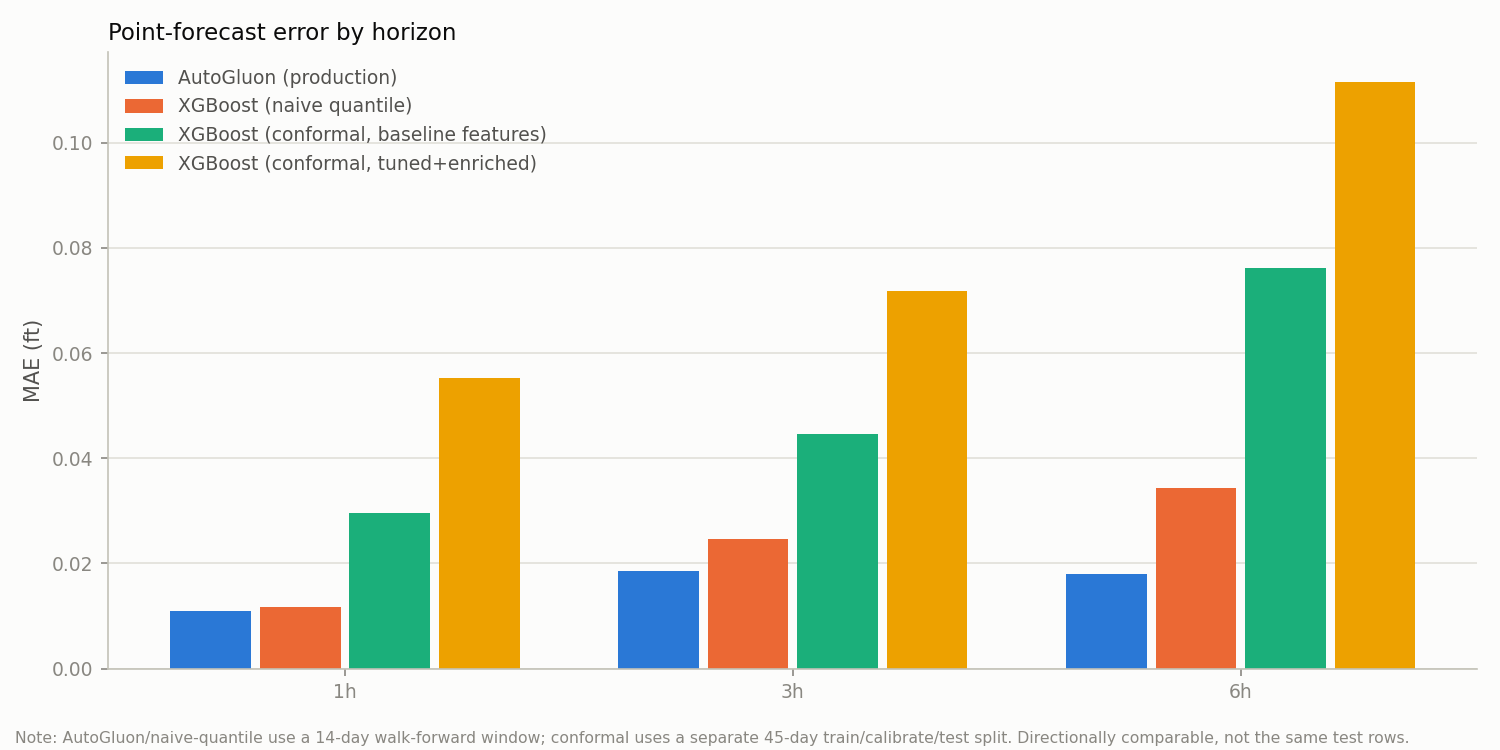
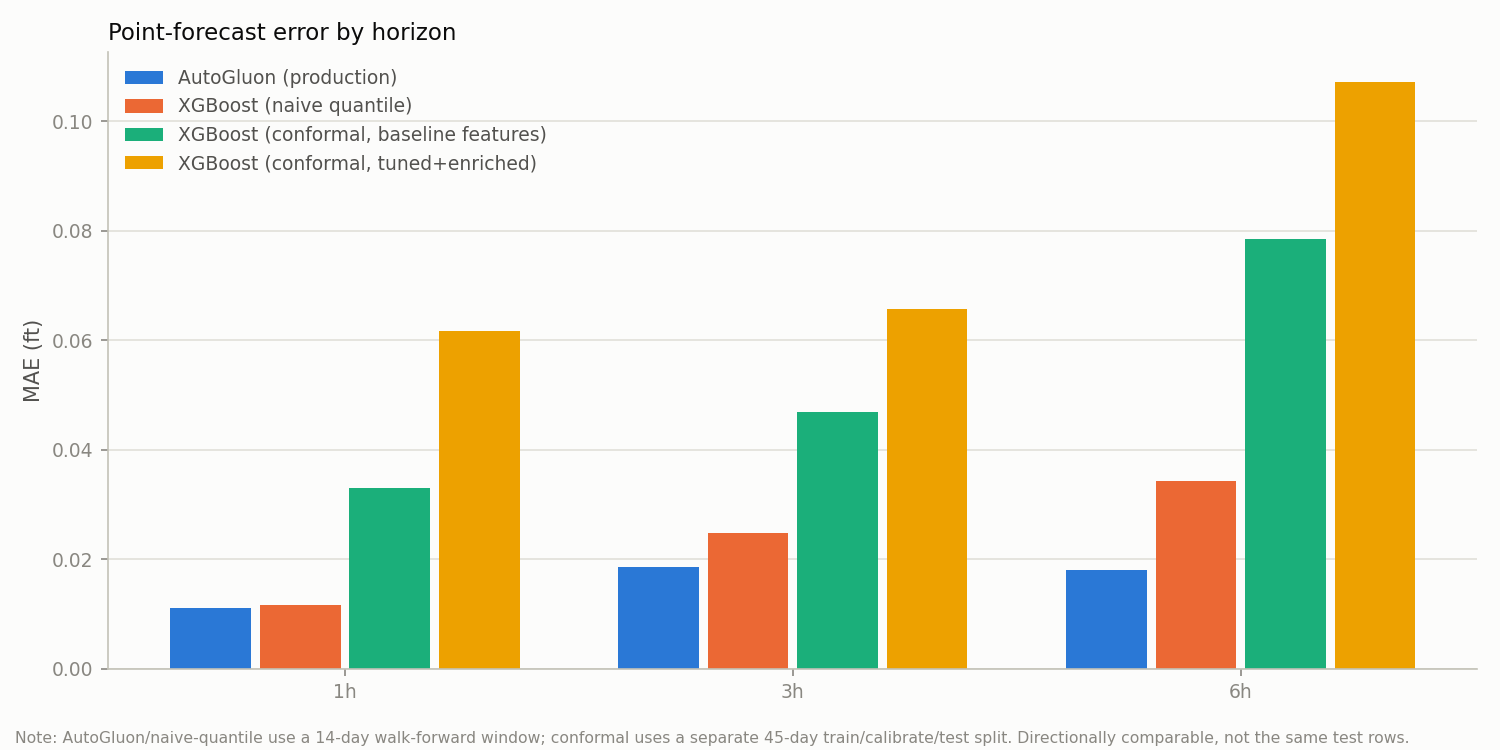
Add issue-time-aligned lead-time charts
plot_forecast_band's target-time alignment (prediction plotted at what
it's for) can't ever show lead time -- a perfectly accurate forecast and a
merely persistent one look identical under that alignment. The new
plot_forecast_lead_time plots the prediction at issue time (when it was
actually made) instead, with the actual line staying at its true occurrence
times: a real early-warning signal would show the predicted line rising
horizon_hours to the left of the actual line's own rise.

At h=6 this makes visible what the numbers already implied: the predicted
line's rise lands at essentially the same moment as the actual rise, not
6 hours earlier -- confirming the model is reactive (extrapolating a rise
already visible in its own recent lag features) rather than anticipatory.

Also refreshed the other charts with a fresh data pull.

diff --git a/xgboost_model/charts.py b/xgboost_model/charts.py
@@ -103,6 +103,69 @@ def plot_forecast_band(site_code, horizon_hours, days=45, save_path=None):
     return fig
 
 
+def plot_forecast_lead_time(site_code, horizon_hours, days=45, save_path=None):
+    """Same data as plot_forecast_band, aligned differently to answer a
+    different question: does the forecast actually give advance warning?
+
+    plot_forecast_band plots the prediction at its *target* time (issue_time
+    + horizon) right next to the actual reading for that same moment -- the
+    standard way to visualize point-forecast accuracy, but it can *never*
+    show lead time, because a perfectly accurate forecast and a merely
+    persistent one look identical under that alignment (both just match the
+    actual line at each moment).
+
+    Here, the actual line stays at its true, natural occurrence times, but
+    the predicted line and its interval are shifted back to the *issue*
+    time (when the forecast was actually made) instead of the target time.
+    If the model had real lead time, its predicted line would show a rise
+    horizon_hours to the *left* of the actual line's own rise. If the model
+    is reactive (only extrapolating a rise that's already visible in its own
+    recent inputs -- see README.md), the predicted line's rise lands at
+    essentially the same moment as the actual line's, because "predicted for
+    T+horizon, issued at T" ends up close to whatever the reading already
+    was at T.
+    """
+    result = evaluate_fixed_model(site_code, horizon_hours, days=days, return_predictions=True)
+    if result["status"] != "ok":
+        raise RuntimeError(f"Cannot chart {site_code} h={horizon_hours}: {result['status']}")
+
+    preds = result["predictions"]
+    issue_time = preds["timestamp"] - pd.Timedelta(hours=horizon_hours)
+
+    fig, ax = _new_axis(figsize=(10, 5))
+
+    ax.fill_between(
+        issue_time, preds["lower"], preds["upper"],
+        color=CATEGORICAL["blue"], alpha=0.15, linewidth=0, zorder=1,
+        label=f"{result['ci80_nominal']:.0%} interval, shown at issue time",
+    )
+    ax.plot(
+        preds["timestamp"], preds["actual"],
+        color=COLOR_INK_PRIMARY, linewidth=1.6, zorder=3, label="Actual gage height (true time)",
+    )
+    ax.plot(
+        issue_time, preds["predicted"],
+        color=CATEGORICAL["orange"], linewidth=1.6, zorder=2,
+        label=f"Predicted, shown at issue time (i.e. {horizon_hours}h before its target)",
+    )
+
+    ax.set_ylabel("Gage height (ft)", color=COLOR_INK_SECONDARY, fontsize=10)
+    ax.set_title(
+        f"Pompton River (site {site_code}) — {horizon_hours}h-ahead forecast, aligned by issue time\n"
+        f"a real early-warning signal would show the orange line rising {horizon_hours}h left of the black line",
+        color=COLOR_INK_PRIMARY, fontsize=11, loc="left",
+    )
+    fig.autofmt_xdate()
+    ax.legend(frameon=False, loc="upper left", fontsize=9, labelcolor=COLOR_INK_SECONDARY)
+    fig.tight_layout()
+
+    if save_path:
+        fig.savefig(save_path, dpi=150, facecolor=COLOR_SURFACE)
+        plt.close(fig)
+        return save_path
+    return fig
+
+
 def plot_calibration_reliability(results_df, save_path=None):
     """Grouped bars: empirical CI coverage per engine per horizon, against a
     dashed nominal-coverage reference line. The gap between bar and line *is*
@@ -216,6 +279,11 @@ if __name__ == "__main__":
     print("Rendering forecast-with-band charts...")
     for horizon in HORIZONS:
         path = plot_forecast_band(site_code, horizon, save_path=os.path.join(CHARTS_DIR, f"forecast_h{horizon}.png"))
+        print(f"  saved {path}")
+
+    print("Rendering issue-time-aligned lead-time charts...")
+    for horizon in HORIZONS:
+        path = plot_forecast_lead_time(site_code, horizon, save_path=os.path.join(CHARTS_DIR, f"lead_time_h{horizon}.png"))
         print(f"  saved {path}")
 
     print("\nAssembling cross-engine comparison table...")
